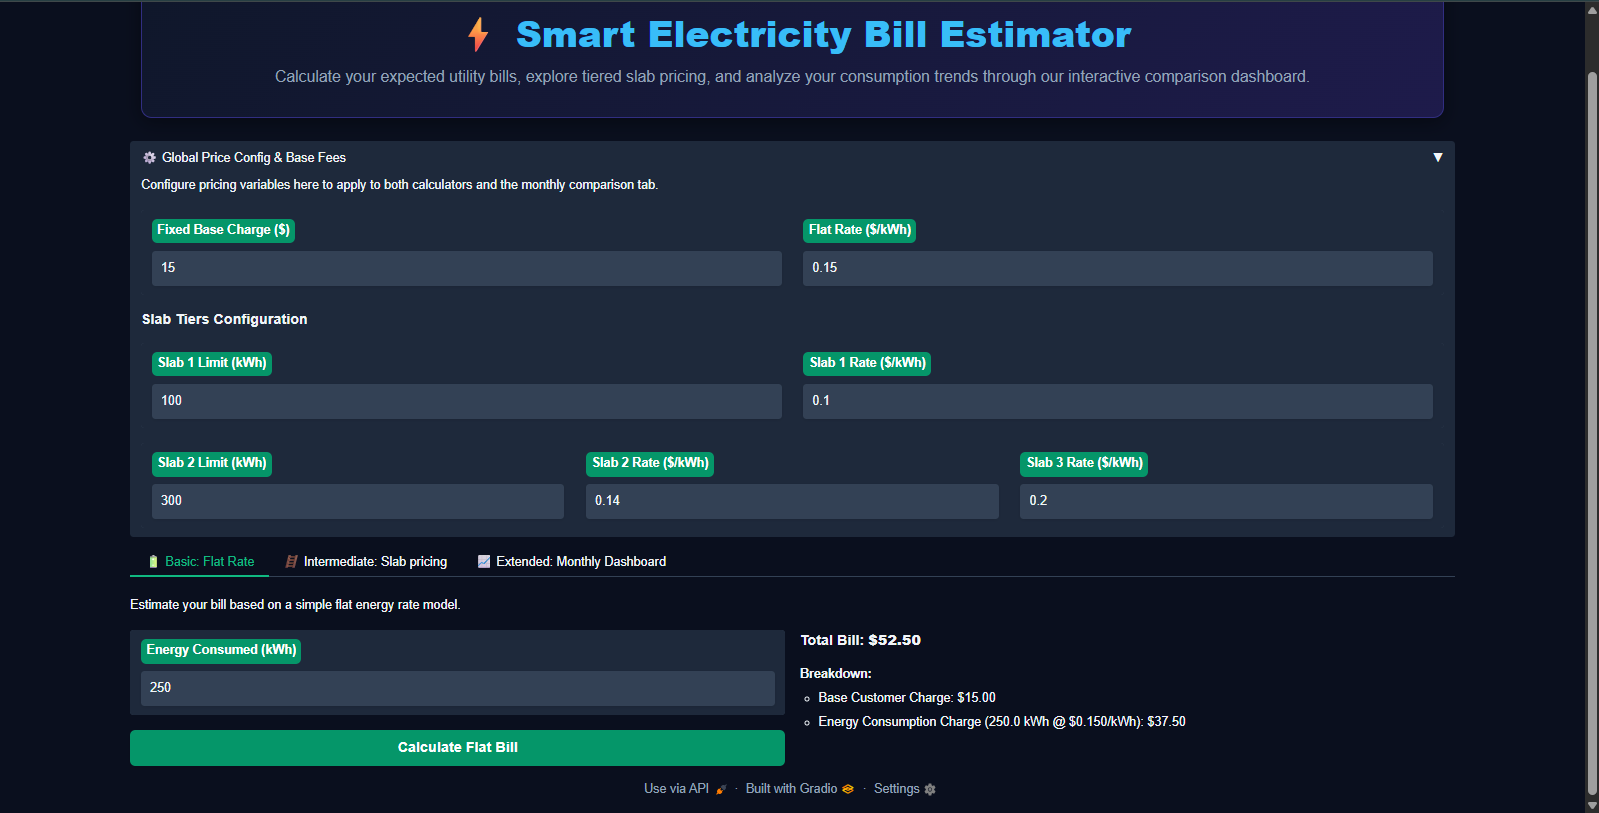
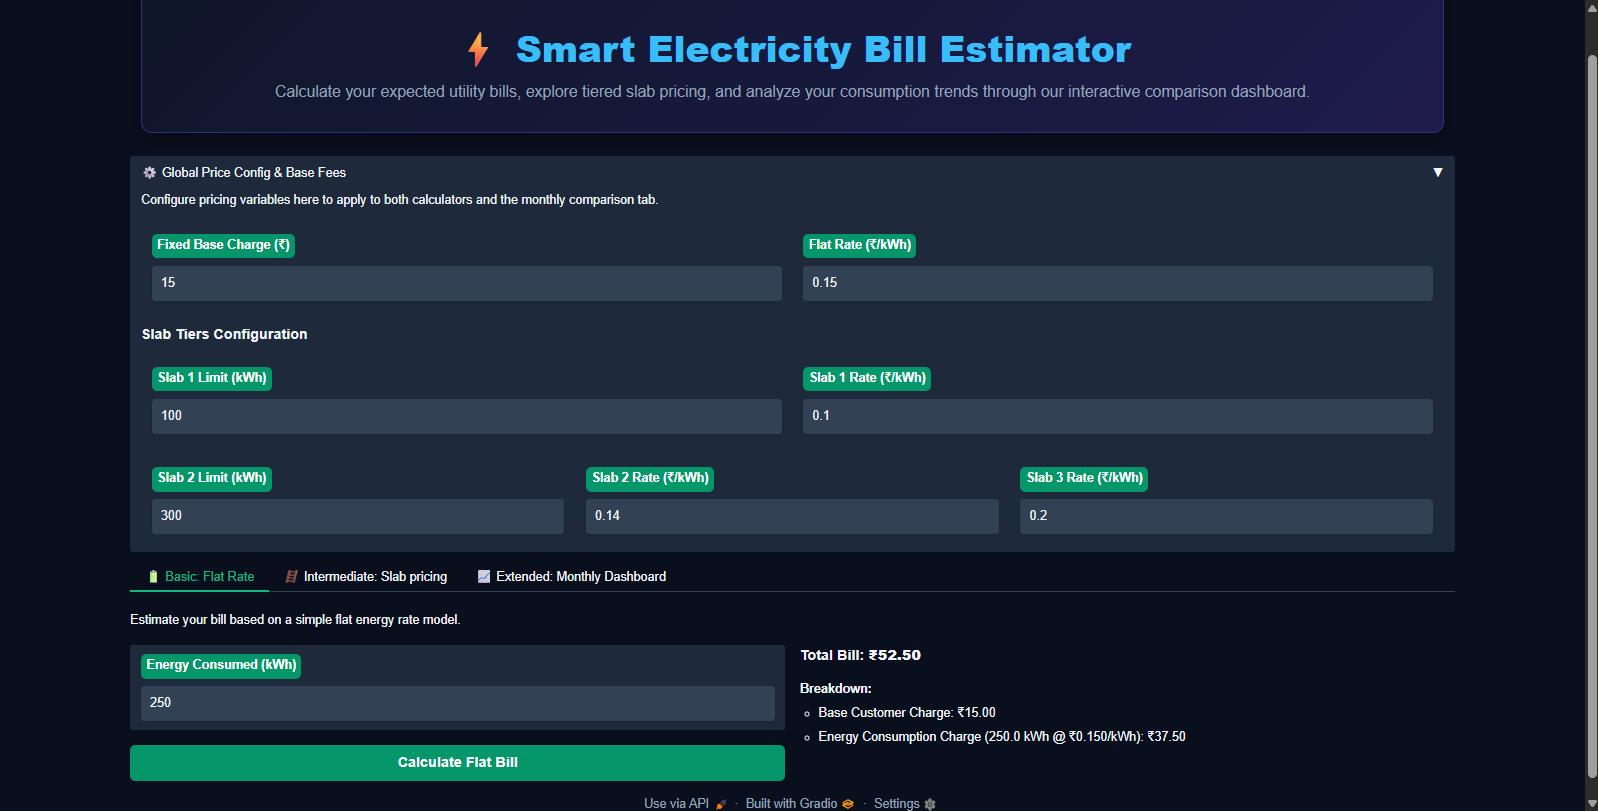
feat: upgrade monthly dashboard to support 12-month annual comparison and improve UI layout

diff --git a/app.py b/app.py
@@ -122,10 +122,14 @@ def slab_calculator(units: float, slab1_limit: float, slab1_rate: float, slab2_l
     except Exception as e:
         return f"⚠️ **Error:** {str(e)}"
 
-def generate_comparison_charts(jan: float, feb: float, mar: float, apr: float, may: float, jun: float, flat_rate: float, slab1_limit: float, slab1_rate: float, slab2_limit: float, slab2_rate: float, slab3_rate: float, base_charge: float) -> Tuple[go.Figure, str]:
+def generate_comparison_charts(mode: str, jan: float, feb: float, mar: float, apr: float, may: float, jun: float, jul: float, aug: float, sep: float, oct: float, nov: float, dec: float, flat_rate: float, slab1_limit: float, slab1_rate: float, slab2_limit: float, slab2_rate: float, slab3_rate: float, base_charge: float) -> Tuple[go.Figure, str]:
     try:
-        months = ["January", "February", "March", "April", "May", "June"]
-        usages = [jan, feb, mar, apr, may, jun]
+        months = ["January", "February", "March", "April", "May", "June", "July", "August", "September", "October", "November", "December"]
+        usages = [jan, feb, mar, apr, may, jun, jul, aug, sep, oct, nov, dec]
+        
+        if mode == "6-Month Dashboard":
+            months = months[:6]
+            usages = usages[:6]
 
         # Validate inputs
         if any(u is None or u < 0 for u in usages):
@@ -212,40 +216,39 @@ def generate_comparison_charts(jan: float, feb: float, mar: float, apr: float, m
 
         # Calculate metrics summaries
         total_usage = sum(usages)
-        avg_usage = total_usage / 6
+        avg_usage = total_usage / len(usages)
         total_flat_cost = sum(flat_bills)
         total_slab_cost = sum(slab_bills)
         savings = total_flat_cost - total_slab_cost
         cheaper_model = "Slab Pricing" if savings > 0 else "Flat Rate"
         abs_savings = abs(savings)
 
+        title = "12-Month Annual Summary Analysis" if mode == "12-Month Dashboard" else "6-Month Summary Analysis"
         summary_html = f"""
-        <div style="background-color: #1e293b; padding: 15px; border-radius: 8px; border: 1px solid #334155; margin-bottom: 20px;">
-            <h4 style="margin-top: 0; color: #38bdf8;">📊 6-Month Summary Analysis</h4>
-            <table style="width: 100%; border-collapse: collapse; color: #e2e8f0; font-size: 14px;">
-                <tr>
-                    <td style="padding: 6px 0;">Total Consumption:</td>
-                    <td style="text-align: right; font-weight: bold; color: #10b981;">{total_usage:.1f} kWh</td>
-                </tr>
-                <tr>
-                    <td style="padding: 6px 0;">Average Monthly Consumption:</td>
-                    <td style="text-align: right; font-weight: bold;">{avg_usage:.1f} kWh/month</td>
-                </tr>
-                <tr>
-                    <td style="padding: 6px 0;">Total Cost under Flat Rate:</td>
-                    <td style="text-align: right; font-weight: bold; color: #f59e0b;">₹{total_flat_cost:.2f}</td>
-                </tr>
-                <tr>
-                    <td style="padding: 6px 0;">Total Cost under Slab Pricing:</td>
-                    <td style="text-align: right; font-weight: bold; color: #3b82f6;">₹{total_slab_cost:.2f}</td>
-                </tr>
-                <tr style="border-top: 1px solid #475569;">
-                    <td style="padding: 10px 0 0 0; font-weight: bold; color: #a7f3d0;">Recommendation:</td>
-                    <td style="padding: 10px 0 0 0; text-align: right; font-weight: bold; color: #34d399;">
-                        {cheaper_model} is more economical by ₹{abs_savings:.2f}!
-                    </td>
-                </tr>
-            </table>
+        <div style="background-color: #1e293b; padding: 20px; border-radius: 8px; border: 1px solid #334155; margin-bottom: 20px;">
+            <h4 style="margin-top: 0; margin-bottom: 15px; color: #38bdf8;">📊 {title}</h4>
+            <div style="display: flex; flex-wrap: wrap; justify-content: space-between; gap: 15px;">
+                <div style="flex: 1; min-width: 150px;">
+                    <div style="font-size: 12px; color: #94a3b8; margin-bottom: 5px;">⚡ Total Consumption</div>
+                    <div style="font-size: 20px; font-weight: bold; color: #10b981;">{total_usage:.1f} kWh</div>
+                </div>
+                <div style="flex: 1; min-width: 150px; border-left: 1px solid #334155; padding-left: 15px;">
+                    <div style="font-size: 12px; color: #94a3b8; margin-bottom: 5px;">📈 Average Monthly Consumption</div>
+                    <div style="font-size: 18px; font-weight: bold; color: #38bdf8;">{avg_usage:.1f} kWh/month</div>
+                </div>
+                <div style="flex: 1; min-width: 150px; border-left: 1px solid #334155; padding-left: 15px;">
+                    <div style="font-size: 12px; color: #94a3b8; margin-bottom: 5px;">💰 Total Cost (Flat Rate)</div>
+                    <div style="font-size: 20px; font-weight: bold; color: #f59e0b;">₹{total_flat_cost:.2f}</div>
+                </div>
+                <div style="flex: 1; min-width: 150px; border-left: 1px solid #334155; padding-left: 15px;">
+                    <div style="font-size: 12px; color: #94a3b8; margin-bottom: 5px;">💵 Total Cost (Slab Pricing)</div>
+                    <div style="font-size: 20px; font-weight: bold; color: #3b82f6;">₹{total_slab_cost:.2f}</div>
+                </div>
+                <div style="flex: 1; min-width: 200px; border-left: 1px solid #334155; padding-left: 15px;">
+                    <div style="font-size: 12px; color: #94a3b8; margin-bottom: 5px;">⭐ Recommendation</div>
+                    <div style="font-size: 16px; font-weight: bold; color: #34d399;">{cheaper_model} is more economical by ₹{abs_savings:.2f}!</div>
+                </div>
+            </div>
         </div>
         """
 
@@ -356,28 +359,43 @@ with gr.Blocks() as demo:
         with gr.TabItem("📈 Extended: Monthly Dashboard"):
             gr.Markdown("Enter your monthly energy usage to visualize costs and analyze which pricing model is best for you.")
             
-            with gr.Row():
-                # Usage fields for 6 months
-                with gr.Column(scale=1):
-                    gr.Markdown("#### Enter Consumption (kWh) for Each Month")
-                    jan_val = gr.Slider(label="January (kWh)", minimum=0, maximum=1000, value=220, step=5)
-                    feb_val = gr.Slider(label="February (kWh)", minimum=0, maximum=1000, value=190, step=5)
-                    mar_val = gr.Slider(label="March (kWh)", minimum=0, maximum=1000, value=250, step=5)
-                    apr_val = gr.Slider(label="April (kWh)", minimum=0, maximum=1000, value=310, step=5)
-                    may_val = gr.Slider(label="May (kWh)", minimum=0, maximum=1000, value=450, step=5)
-                    jun_val = gr.Slider(label="June (kWh)", minimum=0, maximum=1000, value=520, step=5)
-                    
-                    compare_btn = gr.Button("Generate Dashboard & Comparison", variant="primary")
-                
-                # Interactive Plotly chart and analysis panel
-                with gr.Column(scale=2):
-                    summary_panel = gr.HTML("<div style='text-align: center; color: #64748b; padding-top: 40px;'>Enter data and click the button to see comparative analysis.</div>")
-                    comparison_plot = gr.Plot(label="Analysis Visualization")
+            dash_mode = gr.Radio(["12-Month Dashboard", "6-Month Dashboard"], value="12-Month Dashboard", label="Dashboard Type")
             
+            gr.Markdown("#### Enter Monthly Energy Consumption (kWh)")
+            with gr.Row():
+                jan_val = gr.Slider(label="January (kWh)", minimum=0, maximum=1000, value=220, step=5)
+                feb_val = gr.Slider(label="February (kWh)", minimum=0, maximum=1000, value=190, step=5)
+                mar_val = gr.Slider(label="March (kWh)", minimum=0, maximum=1000, value=250, step=5)
+                apr_val = gr.Slider(label="April (kWh)", minimum=0, maximum=1000, value=310, step=5)
+                may_val = gr.Slider(label="May (kWh)", minimum=0, maximum=1000, value=450, step=5)
+                jun_val = gr.Slider(label="June (kWh)", minimum=0, maximum=1000, value=520, step=5)
+            
+            with gr.Row() as h2_row:
+                jul_val = gr.Slider(label="July (kWh)", minimum=0, maximum=1000, value=500, step=5)
+                aug_val = gr.Slider(label="August (kWh)", minimum=0, maximum=1000, value=480, step=5)
+                sep_val = gr.Slider(label="September (kWh)", minimum=0, maximum=1000, value=350, step=5)
+                oct_val = gr.Slider(label="October (kWh)", minimum=0, maximum=1000, value=280, step=5)
+                nov_val = gr.Slider(label="November (kWh)", minimum=0, maximum=1000, value=230, step=5)
+                dec_val = gr.Slider(label="December (kWh)", minimum=0, maximum=1000, value=210, step=5)
+            
+            compare_btn = gr.Button("Generate Dashboard", variant="primary")
+            
+            summary_panel = gr.HTML("<div style='text-align: center; color: #64748b; padding-top: 20px;'>Enter data and click the button to see comparative analysis.</div>")
+            comparison_plot = gr.Plot(label="Analysis Visualization")
+            
+            def toggle_h2(mode):
+                if mode == "6-Month Dashboard":
+                    return gr.update(visible=False)
+                return gr.update(visible=True)
+                
+            dash_mode.change(fn=toggle_h2, inputs=dash_mode, outputs=h2_row)
+
             compare_btn.click(
                 fn=generate_comparison_charts,
                 inputs=[
+                    dash_mode,
                     jan_val, feb_val, mar_val, apr_val, may_val, jun_val,
+                    jul_val, aug_val, sep_val, oct_val, nov_val, dec_val,
                     global_flat_rate, slab1_lim, slab1_rt, slab2_lim, slab2_rt, slab3_rt, global_base
                 ],
                 outputs=[comparison_plot, summary_panel]

diff --git a/README.md b/README.md
@@ -1,6 +1,6 @@
 # ⚡ Electricity Bill Estimator
 
-> A Python + Gradio web app that helps households track energy consumption and estimate electricity bills — from simple flat-rate calculations to a full monthly comparison dashboard.
+> A Python + Gradio web app that helps households track energy consumption and estimate electricity bills — from simple flat-rate calculations to a full 12-month annual comparison dashboard.
 
 ---
 
@@ -32,7 +32,7 @@ Many households are unaware of how much electricity they consume daily and strug
 - ✅ Support for flat-rate and slab-based pricing models
 - ✅ Input validation and error handling
 - ✅ Interactive web interface built with Gradio
-- ✅ Monthly comparison dashboard *(Extended version)*
+- ✅ 12-month annual comparison dashboard *(Extended version)*
 
 ---
 
@@ -74,8 +74,8 @@ Implements a tiered pricing model (common in Indian electricity billing):
 | 201 – 300 units | ₹4.00 |
 | Above 300 units | ₹6.00 |
 
-### 🔴 Extended — Monthly Comparison Dashboard
-- Enter consumption data for multiple months
+### 🔴 Extended — 12-Month Annual Comparison Dashboard
+- Enter consumption data for a full 12-month year
 - Visual bar chart comparing monthly bills
 - Highlights the highest and lowest billing months
 - Built entirely within the Gradio interface
@@ -111,7 +111,7 @@ The app will launch in your browser at `http://localhost:7860`
 1. Enter the number of units consumed in the input field.
 2. Select the pricing model (Basic / Slab-based).
 3. Click **Calculate** to see your estimated bill.
-4. *(Extended version)* Enter consumption for each month and view the comparison chart.
+4. *(Extended version)* Enter consumption for a full year and view the annual comparison chart.
 
 ---
 
@@ -131,7 +131,7 @@ electricity-bill-estimator/
 
 > *(Note: The images below are placeholders. Please add actual Gradio app screenshots here after running the project)*
 
-| Basic Calculator | Slab-Based | Monthly Dashboard |
+| Basic Calculator | Slab-Based | Annual Dashboard |
 |---|---|---|
 | ![Basic](Screenshots/base_calculator.png) | ![Slab](Screenshots/monthly_dashboard.png) | ![Dashboard](Screenshots/slab-based.png) |
 